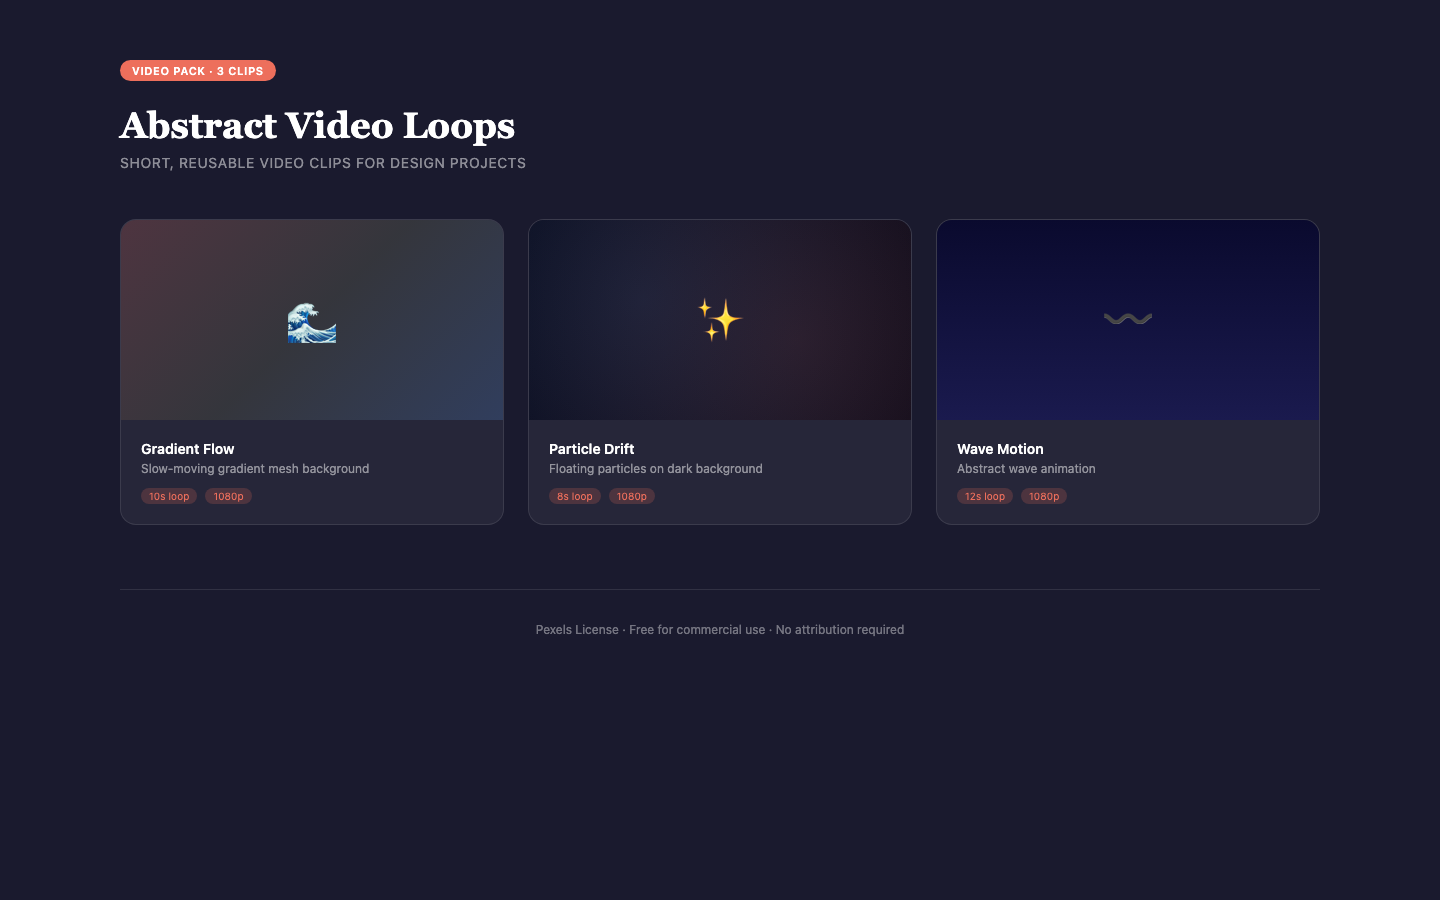
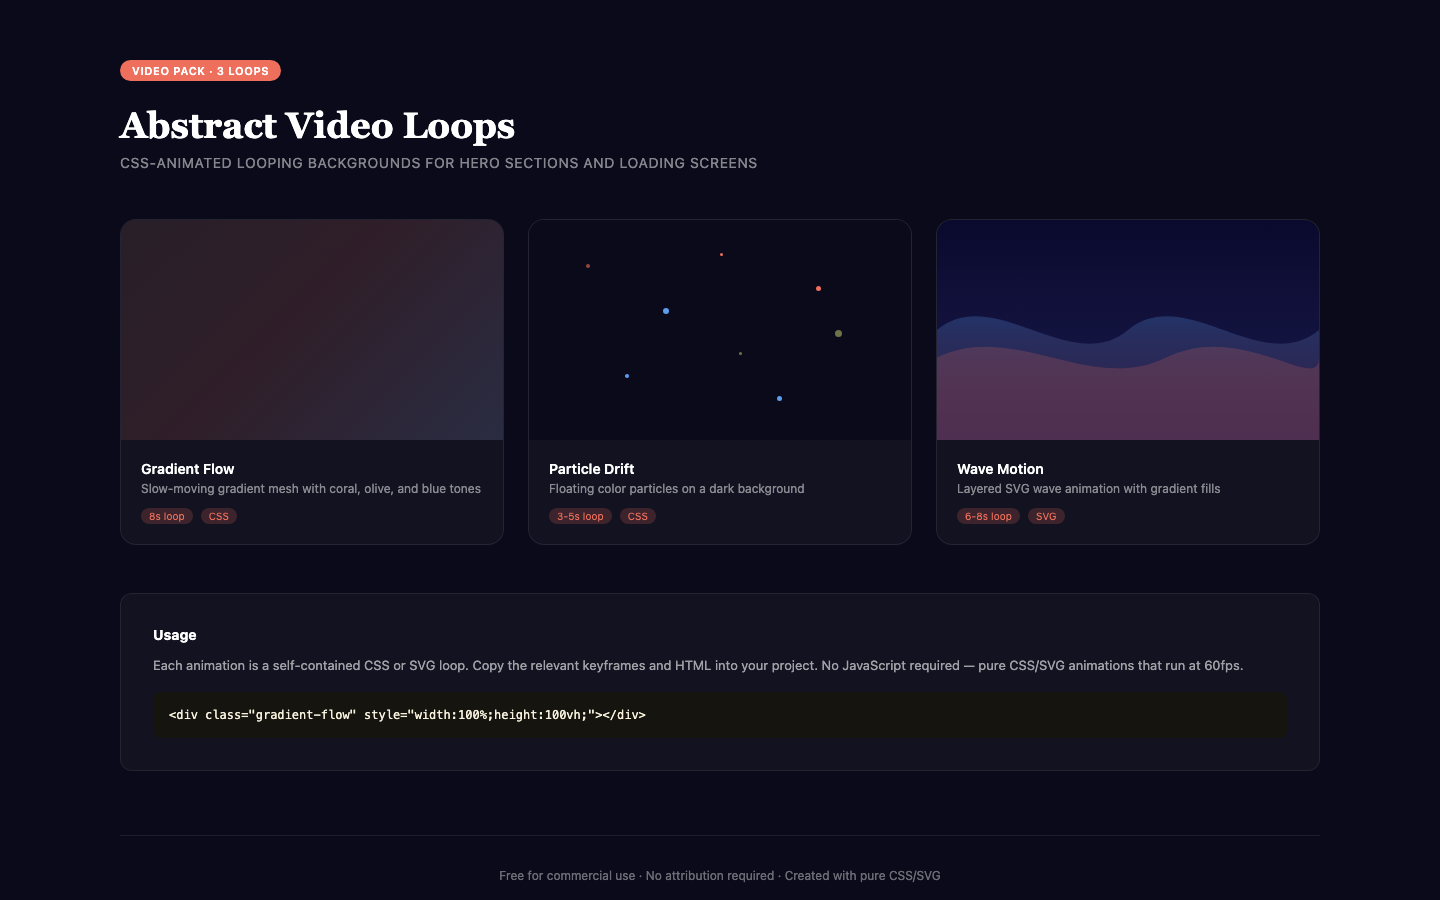
feat: replace video pack placeholder with actual CSS-animated loops
- Gradient Flow: CSS keyframe gradient animation (8s loop)
- Particle Drift: floating particle divs with staggered timing (3-5s loops)
- Wave Motion: SVG animated paths with gradient fills (6-8s loops)
- Added usage section with copyable code snippet
- Updated thumbnail via Chrome headless
- Removed dead @user wave CSS

diff --git a/public/registry/packs/abstract-video-loops/index.html b/public/registry/packs/abstract-video-loops/index.html
@@ -6,66 +6,135 @@
   <title>Abstract Video Loops — Motion Assets</title>
   <style>
     * { margin: 0; padding: 0; box-sizing: border-box; }
-    body { background: #1a1a2e; font-family: 'Inter', system-ui, sans-serif; padding: 60px 40px; color: white; }
+    body { background: #0a0a1a; font-family: 'Inter', system-ui, sans-serif; padding: 60px 40px; color: white; }
     h1 { font-family: Georgia, serif; font-size: 36px; margin-bottom: 8px; }
     .subtitle { font-size: 14px; color: rgba(255,255,255,0.5); margin-bottom: 48px; letter-spacing: 0.05em; text-transform: uppercase; }
     .grid { display: grid; grid-template-columns: repeat(3, 1fr); gap: 24px; max-width: 1200px; margin: 0 auto; }
-    .card { background: rgba(255,255,255,0.05); border-radius: 16px; overflow: hidden; border: 1px solid rgba(255,255,255,0.1); }
-    .card .preview { height: 200px; display: flex; align-items: center; justify-content: center; font-size: 48px; }
-    .card .info { padding: 20px; }
+    .card { background: rgba(255,255,255,0.03); border-radius: 16px; overflow: hidden; border: 1px solid rgba(255,255,255,0.08); }
+    .preview { height: 220px; position: relative; overflow: hidden; }
+    .info { padding: 20px; }
     .card h3 { font-size: 14px; font-weight: 600; }
     .card p { font-size: 12px; color: rgba(255,255,255,0.5); margin-top: 4px; }
-    .card .meta { display: flex; gap: 8px; margin-top: 12px; }
-    .card .tag { font-size: 10px; background: rgba(237,111,92,0.2); color: #ed6f5c; padding: 2px 8px; border-radius: 999px; }
-    .footer { text-align: center; margin-top: 64px; padding-top: 32px; border-top: 1px solid rgba(255,255,255,0.1); }
+    .meta { display: flex; gap: 8px; margin-top: 12px; }
+    .tag { font-size: 10px; background: rgba(237,111,92,0.2); color: #ed6f5c; padding: 2px 8px; border-radius: 999px; }
+    .footer { text-align: center; margin-top: 64px; padding-top: 32px; border-top: 1px solid rgba(255,255,255,0.08); }
     .footer p { font-size: 12px; color: rgba(255,255,255,0.4); }
     .badge { display: inline-block; background: #ed6f5c; color: white; font-size: 11px; padding: 4px 12px; border-radius: 999px; margin-bottom: 24px; font-weight: 600; letter-spacing: 0.05em; text-transform: uppercase; }
+
+    /* Gradient Flow Animation */
+    @keyframes gradientFlow {
+      0% { background-position: 0% 50%; }
+      50% { background-position: 100% 50%; }
+      100% { background-position: 0% 50%; }
+    }
+    .gradient-flow {
+      background: linear-gradient(-45deg, #ed6f5c44, #6e744844, #5c9ded44, #ed6f5c22, #6e744822);
+      background-size: 400% 400%;
+      animation: gradientFlow 8s ease infinite;
+    }
+
+    /* Particle Drift Animation */
+    @keyframes float { 0%,100% { transform: translateY(0) translateX(0); opacity: 0.6; } 50% { transform: translateY(-20px) translateX(10px); opacity: 1; } }
+    @keyframes float2 { 0%,100% { transform: translateY(0) translateX(0); opacity: 0.4; } 50% { transform: translateY(15px) translateX(-12px); opacity: 0.8; } }
+    @keyframes float3 { 0%,100% { transform: translateY(0); opacity: 0.5; } 50% { transform: translateY(-30px); opacity: 0.9; } }
+    .particle { position: absolute; border-radius: 50%; }
+    .p1 { width: 4px; height: 4px; background: #ed6f5c; top: 20%; left: 15%; animation: float 4s ease-in-out infinite; }
+    .p2 { width: 6px; height: 6px; background: #5c9ded; top: 40%; left: 35%; animation: float2 5s ease-in-out infinite 0.5s; }
+    .p3 { width: 3px; height: 3px; background: #6e7448; top: 60%; left: 55%; animation: float3 3.5s ease-in-out infinite 1s; }
+    .p4 { width: 5px; height: 5px; background: #ed6f5c; top: 30%; left: 75%; animation: float 4.5s ease-in-out infinite 0.3s; }
+    .p5 { width: 4px; height: 4px; background: #5c9ded; top: 70%; left: 25%; animation: float2 3s ease-in-out infinite 0.7s; }
+    .p6 { width: 7px; height: 7px; background: #6e7448; top: 50%; left: 80%; animation: float 5s ease-in-out infinite 1.2s; }
+    .p7 { width: 3px; height: 3px; background: #ed6f5c; top: 15%; left: 50%; animation: float3 4s ease-in-out infinite 0.8s; }
+    .p8 { width: 5px; height: 5px; background: #5c9ded; top: 80%; left: 65%; animation: float2 3.5s ease-in-out infinite 0.4s; }
+
+    .wave-container { background: linear-gradient(180deg, #0a0a2e, #1a1a4e); }
   </style>
 </head>
 <body>
   <div style="max-width: 1200px; margin: 0 auto;">
-    <div class="badge">Video Pack · 3 Clips</div>
+    <div class="badge">Video Pack · 3 Loops</div>
     <h1>Abstract Video Loops</h1>
-    <p class="subtitle">Short, reusable video clips for design projects</p>
-    
+    <p class="subtitle">CSS-animated looping backgrounds for hero sections and loading screens</p>
+
     <div class="grid">
       <div class="card">
-        <div class="preview" style="background: linear-gradient(135deg, #ed6f5c33, #6e744833, #5c9ded33);">🌊</div>
+        <div class="preview gradient-flow"></div>
         <div class="info">
           <h3>Gradient Flow</h3>
-          <p>Slow-moving gradient mesh background</p>
-          <div class="meta">
-            <span class="tag">10s loop</span>
-            <span class="tag">1080p</span>
-          </div>
-        </div>
-      </div>
-      <div class="card">
-        <div class="preview" style="background: radial-gradient(circle at 30% 40%, #5c9ded22, transparent), radial-gradient(circle at 70% 60%, #ed6f5c22, transparent), #0a0a1a;">✨</div>
-        <div class="info">
-          <h3>Particle Drift</h3>
-          <p>Floating particles on dark background</p>
+          <p>Slow-moving gradient mesh with coral, olive, and blue tones</p>
           <div class="meta">
             <span class="tag">8s loop</span>
-            <span class="tag">1080p</span>
+            <span class="tag">CSS</span>
           </div>
         </div>
       </div>
       <div class="card">
-        <div class="preview" style="background: linear-gradient(180deg, #0a0a2e, #1a1a4e);">〰️</div>
+        <div class="preview" style="background: #0a0a1a;">
+          <div class="particle p1"></div>
+          <div class="particle p2"></div>
+          <div class="particle p3"></div>
+          <div class="particle p4"></div>
+          <div class="particle p5"></div>
+          <div class="particle p6"></div>
+          <div class="particle p7"></div>
+          <div class="particle p8"></div>
+        </div>
+        <div class="info">
+          <h3>Particle Drift</h3>
+          <p>Floating color particles on a dark background</p>
+          <div class="meta">
+            <span class="tag">3-5s loop</span>
+            <span class="tag">CSS</span>
+          </div>
+        </div>
+      </div>
+      <div class="card">
+        <div class="preview wave-container" style="display:flex;align-items:center;justify-content:center;">
+          <svg viewBox="0 0 400 160" width="100%" height="100%" preserveAspectRatio="none">
+            <defs>
+              <linearGradient id="wg1" x1="0" y1="0" x2="0" y2="1">
+                <stop offset="0%" stop-color="#5c9ded" stop-opacity="0.4"/>
+                <stop offset="100%" stop-color="#ed6f5c" stop-opacity="0.1"/>
+              </linearGradient>
+            </defs>
+            <path fill="url(#wg1)" opacity="0.6">
+              <animate attributeName="d" dur="6s" repeatCount="indefinite"
+                values="M0,80 C60,20 140,140 200,80 C260,20 340,140 400,80 L400,160 L0,160 Z;
+                        M0,80 C60,140 140,20 200,80 C260,140 340,20 400,80 L400,160 L0,160 Z;
+                        M0,80 C60,20 140,140 200,80 C260,20 340,140 400,80 L400,160 L0,160 Z"/>
+            </path>
+            <path fill="#ed6f5c" opacity="0.2">
+              <animate attributeName="d" dur="8s" repeatCount="indefinite"
+                values="M0,100 C80,60 160,140 240,100 C320,60 400,140 400,100 L400,160 L0,160 Z;
+                        M0,100 C80,140 160,60 240,100 C320,140 400,60 400,100 L400,160 L0,160 Z;
+                        M0,100 C80,60 160,140 240,100 C320,60 400,140 400,100 L400,160 L0,160 Z"/>
+            </path>
+          </svg>
+        </div>
         <div class="info">
           <h3>Wave Motion</h3>
-          <p>Abstract wave animation</p>
+          <p>Layered SVG wave animation with gradient fills</p>
           <div class="meta">
-            <span class="tag">12s loop</span>
-            <span class="tag">1080p</span>
+            <span class="tag">6-8s loop</span>
+            <span class="tag">SVG</span>
           </div>
         </div>
       </div>
     </div>
-    
+
+    <div style="max-width: 1200px; margin: 48px auto 0; padding: 32px; background: rgba(255,255,255,0.03); border-radius: 12px; border: 1px solid rgba(255,255,255,0.08);">
+      <h3 style="font-size: 14px; margin-bottom: 12px;">Usage</h3>
+      <p style="font-size: 13px; color: rgba(255,255,255,0.6); line-height: 1.6; margin-bottom: 16px;">
+        Each animation is a self-contained CSS or SVG loop. Copy the relevant keyframes and HTML into your project.
+        No JavaScript required — pure CSS/SVG animations that run at 60fps.
+      </p>
+      <div style="background: #15140f; border-radius: 8px; padding: 16px; font-family: 'JetBrains Mono', monospace; font-size: 12px; color: #f7f1de; overflow-x: auto;">
+        <code>&lt;div class="gradient-flow" style="width:100%;height:100vh;"&gt;&lt;/div&gt;</code>
+      </div>
+    </div>
+
     <div class="footer">
-      <p>Pexels License · Free for commercial use · No attribution required</p>
+      <p>Free for commercial use · No attribution required · Created with pure CSS/SVG</p>
     </div>
   </div>
 </body>